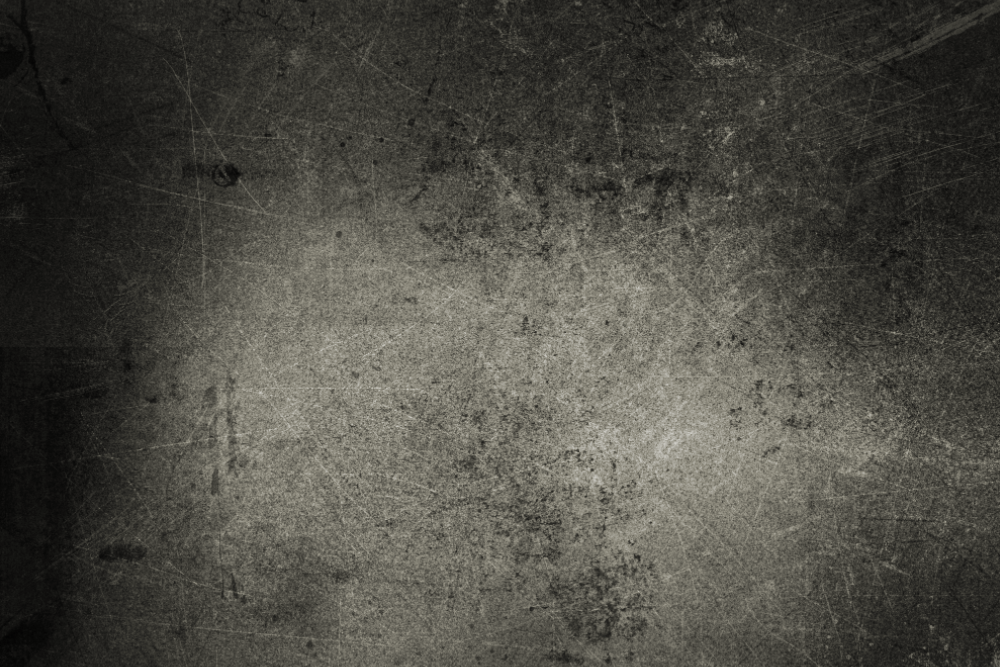
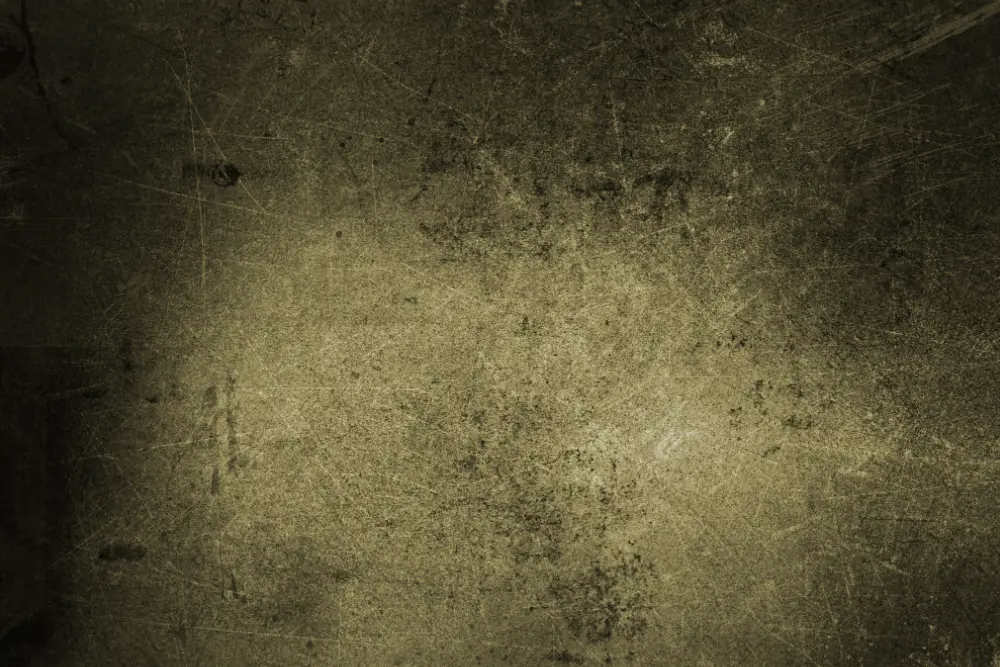
air pas soft's main image changed

Changed region(s): [[0.155, 0.2099, 1.0, 1.0], [0.713, 0.1799, 0.744, 0.2699]]

diff --git a/db/seeds.rb b/db/seeds.rb
@@ -150,12 +150,16 @@ AirPasSoft = Project.create!(
 
 # AirPasSoft.web_languages << Ruby
 
-file = File.open(Rails.root.join("db/seeds_pics/projects/airpassoft/airpassoft.jpg"))
-AirPasSoft.photo.attach(io: file, filename: "airpassoft.jpg", content_type: "image/jpeg")
+# Main image
+file = File.open(Rails.root.join("db/seeds_pics/projects/airpassoft/air-pas-soft.webp"))
+AirPasSoft.photo.attach(io: file, filename: "air-pas-soft.webp", content_type: "image/webp")
 AirPasSoft.save!
 
-image_paths_airpassoft = ['homepage.jpg', 'weapons.jpg', 'weapon.jpg', 'myweapons.jpg', 'newweapon.jpg']
+# Logo
 
+
+# Project's images
+image_paths_airpassoft = ['homepage.jpg', 'weapons.jpg', 'weapon.jpg', 'myweapons.jpg', 'newweapon.jpg']
 image_paths_airpassoft.each do |image_path|
   uploaded_image = Cloudinary::Uploader.upload(File.join(Rails.root, 'db/seeds_pics/projects/airpassoft', image_path))
   AirPasSoft.project_images.create(image: uploaded_image['secure_url'])
@@ -233,7 +237,6 @@ STDevelopments.save!
 
 # Project's images
 image_paths_stdevelopments = ['homepage.jpg', 'prestation.jpg', 'a-propos.jpg', 'clients.jpg', 'blog.jpg']
-
 image_paths_stdevelopments.each do |image_path|
   uploaded_image = Cloudinary::Uploader.upload(File.join(Rails.root, 'db/seeds_pics/projects/stdevelopments', image_path))
   STDevelopments.project_images.create(image: uploaded_image['secure_url'])
